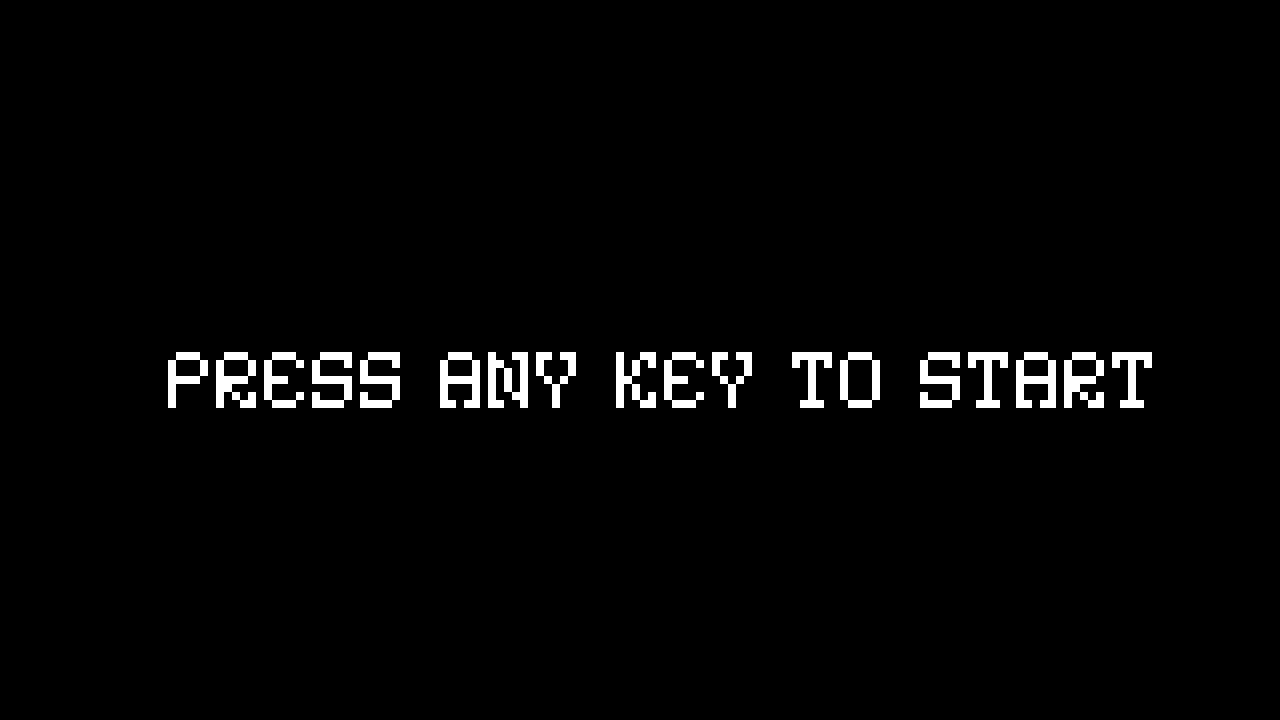
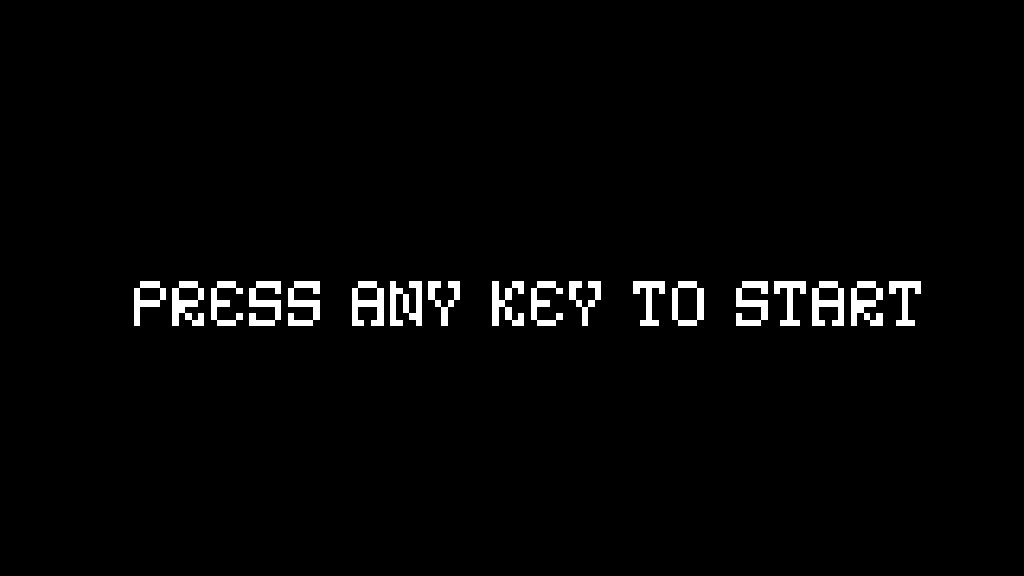
Set FPS to 60, changed movement accordingly
The movement will feel slightly different though, might eventually move
back to 120fps or just change the movement physics

diff --git a/Game.py b/Game.py
@@ -19,13 +19,13 @@ pygame.mixer.init()
 class Game:
     def __init__(self):
         # Set Screen Dimensions
-        self.draw_screen_width = 1024
-        self.draw_screen_height = 576
-        self.draw_screen_size = self.draw_screen_width, self.draw_screen_height
+        self.screen_width = 1024
+        self.screen_height = 576
+        self.screen_size = self.screen_width, self.screen_height
         # Create Screen
         self.display_info = pygame.display.Info()
-        self.screen = pygame.display.set_mode((self.display_info.current_w, self.display_info.current_h), pygame.FULLSCREEN)
-        self.draw_screen = pygame.Surface((self.draw_screen_width, self.draw_screen_height))
+        self.draw_screen = pygame.display.set_mode((self.display_info.current_w, self.display_info.current_h), pygame.FULLSCREEN)
+        self.screen = pygame.Surface((self.screen_width, self.screen_height))
         # Create Clock
         self.clock = pygame.time.Clock()
 
@@ -45,8 +45,10 @@ class Game:
 
         # Create GUI, Camera that follows the player, and the player itself
         self.GUI = GUI.GUI(self.json_reader)
-        self.camera = Camera.Camera(32*64, 32*48, self.draw_screen_width, self.draw_screen_height)
+        self.camera = Camera.Camera(self.current_location.map_rect.width, self.current_location.map_rect.height, self.screen_width, self.screen_height)
         self.player = Player.Player(self.json_reader)
+
+        # Set flags
         self.game_running = True
         self.paused = False
 
@@ -59,9 +61,9 @@ class Game:
                     self.game_running = False
                 elif event.type == pygame.KEYDOWN:
                     start_screen = False
-            self.draw_screen.fill((0, 0, 0))
-            self.draw_screen.blit(start_screen_image, (0, 0))
-            pygame.display.flip()
+            self.ClearScreen()
+            self.screen.blit(start_screen_image, (0, 0))
+            self.DisplayScreen()
 
     def Setup(self):
         pass
@@ -81,7 +83,7 @@ class Game:
                 self.DrawPausedScreen()
 
             self.DisplayScreen()
-            self.HandleFrameRate(120)
+            self.HandleFrameRate(60)
 
     def Quit(self):
         pygame.quit()
@@ -185,32 +187,31 @@ class Game:
 
     def ClearScreen(self):
         color_of_sky = 30, 144, 255
-        self.draw_screen.fill(color_of_sky)
+        self.screen.fill(color_of_sky)
 
     def DrawGameScreen(self):
         self.camera.Update(self.player)
-        self.draw_screen.blit(self.current_location.map_surface, self.camera.ApplyToRect(self.current_location.map_rect))
+        self.screen.blit(self.current_location.map_surface, self.camera.ApplyToRect(self.current_location.map_rect))
 
-        self.draw_screen.blit(self.player.image, self.camera.ApplyToSprite(self.player))
+        self.screen.blit(self.player.image, self.camera.ApplyToSprite(self.player))
 
         for enemy in self.current_enemies:
-            self.draw_screen.blit(enemy.image, self.camera.ApplyToSprite(enemy))
+            self.screen.blit(enemy.image, self.camera.ApplyToSprite(enemy))
 
         for npc in self.current_location.NPCs:
-            self.draw_screen.blit(npc.image, self.camera.ApplyToSprite(npc))
+            self.screen.blit(npc.image, self.camera.ApplyToSprite(npc))
 
         for gui_element in self.GUI.gui_items:
-            self.draw_screen.blit(gui_element.image, (gui_element.rect.x, gui_element.rect.y))
+            self.screen.blit(gui_element.image, (gui_element.rect.x, gui_element.rect.y))
 
         for item_drop in self.current_location.item_drops:
-            self.draw_screen.blit(item_drop.image, self.camera.ApplyToSprite(item_drop))
+            self.screen.blit(item_drop.image, self.camera.ApplyToSprite(item_drop))
 
     def DrawPausedScreen(self):
-        self.draw_screen.blit(self.GUI.pause_screen.image, (self.GUI.pause_screen.rect.x, self.GUI.pause_screen.rect.y))
+        self.screen.blit(self.GUI.pause_screen.image, (self.GUI.pause_screen.rect.x, self.GUI.pause_screen.rect.y))
 
     def DisplayScreen(self):
-        scaled_display = pygame.transform.scale(self.draw_screen, (self.display_info.current_w, self.display_info.current_h))
-        self.screen.blit(scaled_display, (0, 0))
+        scaled_display = pygame.transform.scale(self.screen, (self.display_info.current_w, self.display_info.current_h), self.draw_screen)
         pygame.display.flip()
 
     def HandleFrameRate(self, frames_per_second):

diff --git a/Player.py b/Player.py
@@ -31,7 +31,7 @@ class Player(pygame.sprite.Sprite):
         self.rect.x = 300
         self.rect.y = 1200
 
-        self.movement_speed = 5.0
+        self.movement_speed = 7.0
         self.vertical_speed = 0.0
         self.move_x = 0.0
         self.move_y = 0.0
@@ -75,7 +75,7 @@ class Player(pygame.sprite.Sprite):
 
     def Jump(self):
         if self.can_jump:
-            upward_speed = -8.0
+            upward_speed = -10.0
             self.vertical_speed = upward_speed
             self.can_jump = False
 
@@ -121,7 +121,7 @@ class Player(pygame.sprite.Sprite):
 
     def UpdateGravity(self):
         if self.vertical_speed <= 10.0:
-            self.vertical_speed += 0.3
+            self.vertical_speed += 0.5
         self.move_y = self.vertical_speed
 
     def HitGround(self):
